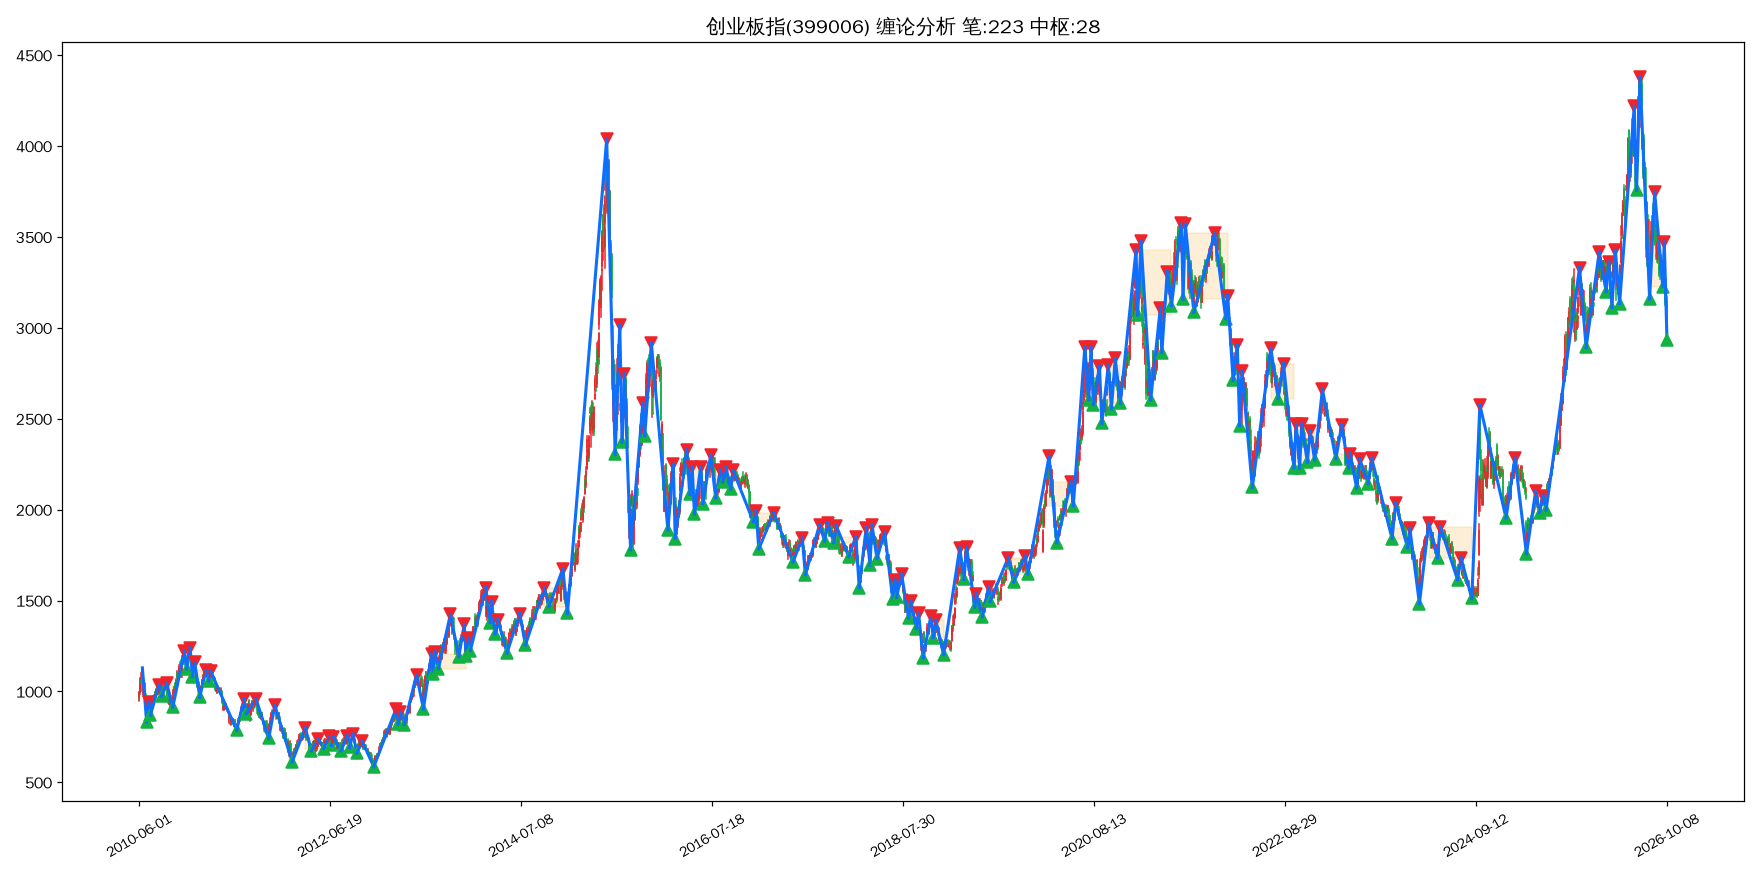
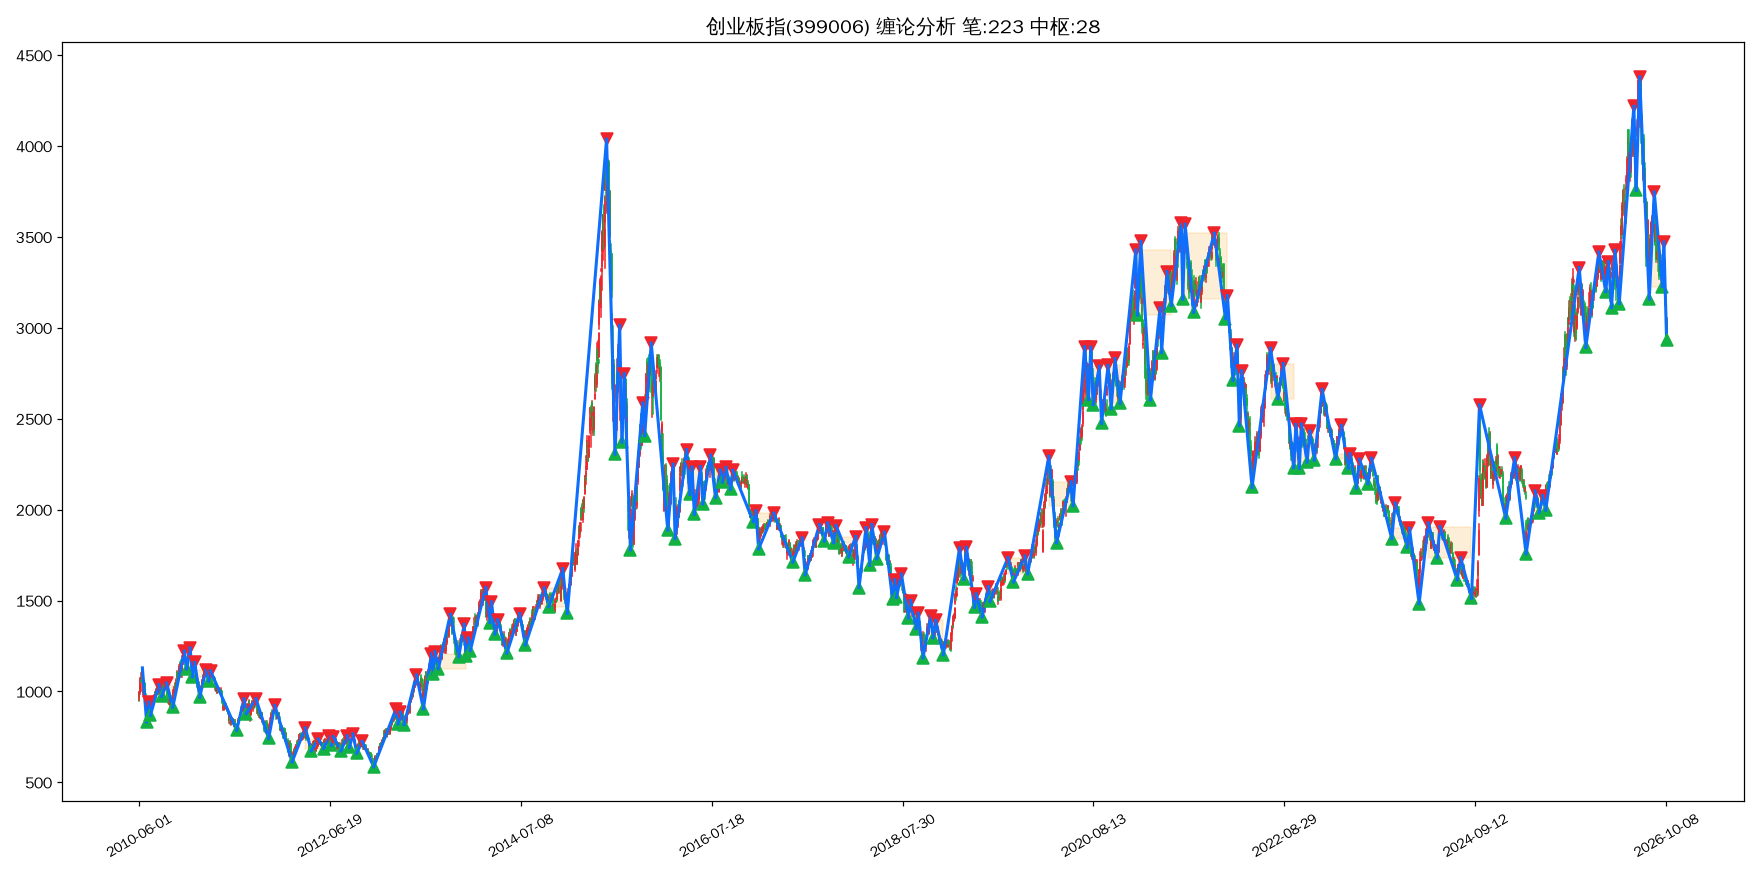
🤖 自动更新缠论分析报告与绘图

diff --git a/chan_report.md b/chan_report.md
@@ -119,8 +119,8 @@
 ![深证指数缠论图谱](chan_img/399001_深证指数.png)
 
 ## 创业板指（399006）
-- 最新收盘价：3043.335
-- 有效K线数量：3970
+- 最新收盘价：2963.824
+- 有效K线数量：3971
 - 笔总数：223 | 中枢总数：28
 - 最新一笔走势：下跌 | 2026-09-22~2026-10-09 | 3472.47 → 2932.80
 - 缠论背驰判断：**无背驰**
@@ -128,8 +128,8 @@
 ![创业板指缠论图谱](chan_img/399006_创业板指.png)
 
 ## 沪深300（000300）
-- 最新收盘价：4317.255
-- 有效K线数量：6005
+- 最新收盘价：4287.98
+- 有效K线数量：6006
 - 笔总数：331 | 中枢总数：39
 - 最新一笔走势：下跌 | 2026-09-22~2026-10-09 | 4583.38 → 4239.74
 - 缠论背驰判断：**无背驰**
@@ -137,8 +137,8 @@
 ![沪深300缠论图谱](chan_img/000300_沪深300.png)
 
 ## 上证50（000016）
-- 最新收盘价：2807.455
-- 有效K线数量：5527
+- 最新收盘价：2819.412
+- 有效K线数量：5528
 - 笔总数：298 | 中枢总数：31
 - 最新一笔走势：下跌 | 2026-07-10~2026-10-09 | 3026.43 → 2772.88
 - 缠论背驰判断：**无背驰**
